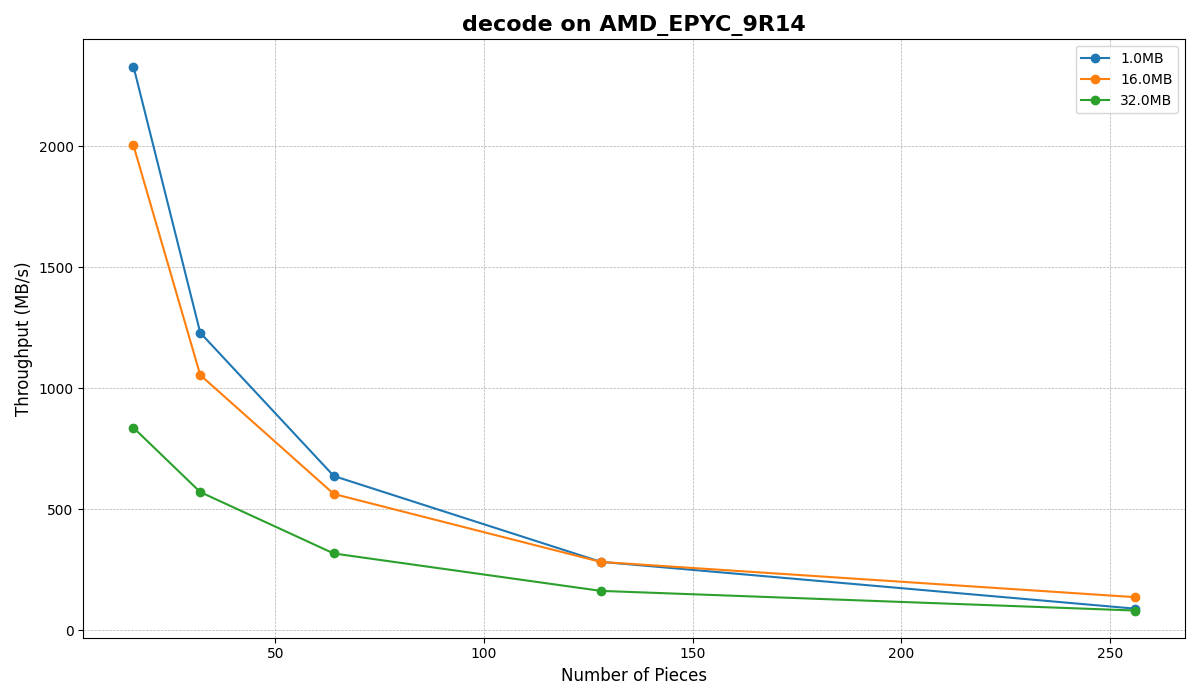
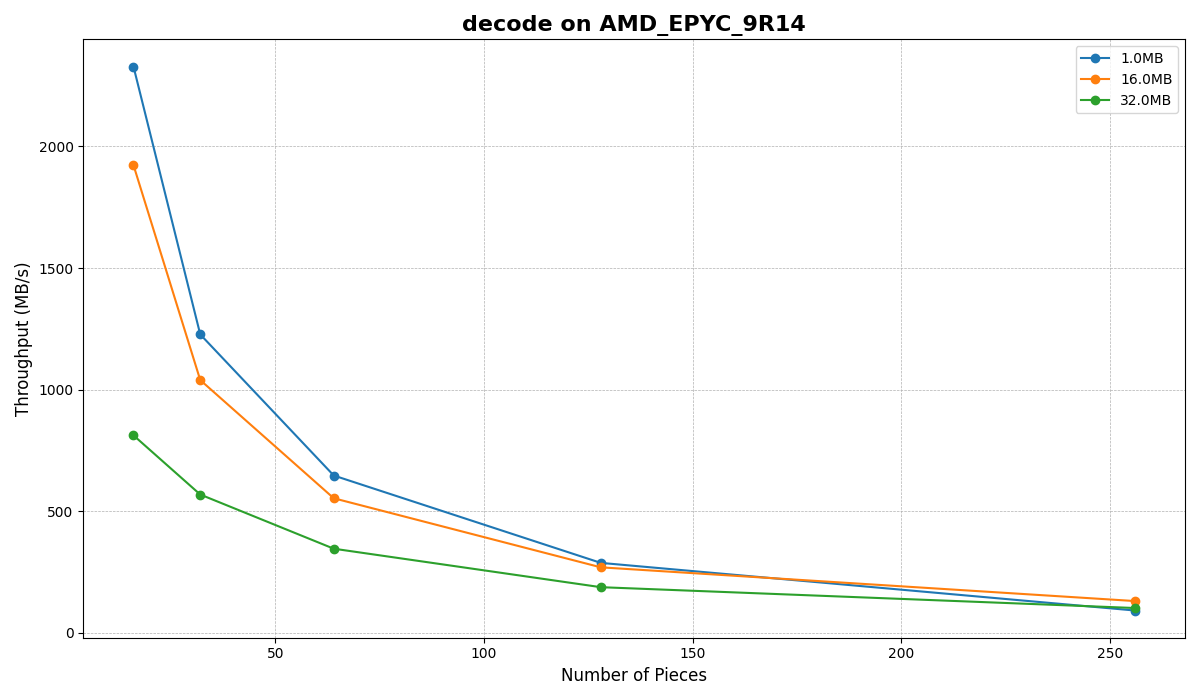
Update benchmark results for AMD x86

diff --git a/plots/README.md b/plots/README.md
@@ -57,3 +57,42 @@ fpu, vme, de, pse, tsc, msr, pae, mce, cx8, apic, sep, mtrr, pge, mca, cmov, pat
 ### Decoder
 
 ![benchmark_decode_on_12th_Gen_IntelR_CoreTM_i7-1260P_with_rustc_1.90.0_1159e78c4_2025-09-14](./benchmark_decode_on_12th_Gen_IntelR_CoreTM_i7-1260P_with_rustc_1.90.0_1159e78c4_2025-09-14.png)
+
+## On AMD EPYC 9R14 (AWS EC2 `m7a.large`)
+
+Running Linux kernel
+
+```bash
+$ uname -srm
+Linux 6.14.0-1011-aws x86_64
+```
+
+with Rust compiler
+
+```bash
+$ rustc --version
+rustc 1.90.0 (1159e78c4 2025-09-14)
+```
+
+and following CPU feature flags
+
+```bash
+$ lscpu | awk -F': *' '/Flags/{gsub(" ", ", ", $2);print $2}'
+fpu, vme, de, pse, tsc, msr, pae, mce, cx8, apic, sep, mtrr, pge, mca, cmov, pat, pse36, clflush, dts, acpi, mmx, fxsr, sse, sse2, ss, ht, tm, pbe, syscall, nx, pdpe1gb, rdtscp, lm, constant_tsc, art, arch_perfmon, pebs, bts, rep_good, nopl, xtopology, nonstop_tsc, cpuid, aperfmperf, tsc_known_freq, pni, pclmulqdq, dtes64, monitor, ds_cpl, vmx, smx, est, tm2, ssse3, sdbg, fma, cx16, xtpr, pdcm, pcid, sse4_1, sse4_2, x2apic, movbe, popcnt, tsc_deadline_timer, aes, xsave, avx, f16c, rdrand, lahf_lm, abm, 3dnowprefetch, cpuid_fault, epb, ssbd, ibrs, ibpb, stibp, ibrs_enhanced, tpr_shadow, flexpriority, ept, vpid, ept_ad, fsgsbase, tsc_adjust, bmi1, avx2, smep, bmi2, erms, invpcid, rdseed, adx, smap, clflushopt, clwb, intel_pt, sha_ni, xsaveopt, xsavec, xgetbv1, xsaves, split_lock_detect, user_shstk, avx_vnni, dtherm, ida, arat, pln, pts, hwp, hwp_notify, hwp_act_window, hwp_epp, hwp_pkg_req, hfi, vnmi, umip, pku, ospke, waitpkg, gfni, vaes, vpclmulqdq, rdpid, movdiri, movdir64b, fsrm, md_clear, serialize, arch_lbr, ibt, flush_l1d, arch_capabilities
+```
+
+### Encoder
+
+![benchmark_encode_on_AMD_EPYC_9R14_with_rustc_1.90.0_1159e78c4_2025-09-14](./benchmark_encode_on_AMD_EPYC_9R14_with_rustc_1.90.0_1159e78c4_2025-09-14.png)
+
+![benchmark_encode_zero_alloc_on_AMD_EPYC_9R14_with_rustc_1.90.0_1159e78c4_2025-09-14](./benchmark_encode_zero_alloc_on_AMD_EPYC_9R14_with_rustc_1.90.0_1159e78c4_2025-09-14.png)
+
+### Recoder
+
+![benchmark_recode_on_AMD_EPYC_9R14_with_rustc_1.90.0_1159e78c4_2025-09-14](./benchmark_recode_on_AMD_EPYC_9R14_with_rustc_1.90.0_1159e78c4_2025-09-14.png)
+
+![benchmark_recode_zero_alloc_on_AMD_EPYC_9R14_with_rustc_1.90.0_1159e78c4_2025-09-14](./benchmark_recode_zero_alloc_on_AMD_EPYC_9R14_with_rustc_1.90.0_1159e78c4_2025-09-14.png)
+
+### Decoder
+
+![benchmark_decode_on_AMD_EPYC_9R14_with_rustc_1.90.0_1159e78c4_2025-09-14](./benchmark_decode_on_AMD_EPYC_9R14_with_rustc_1.90.0_1159e78c4_2025-09-14.png)
